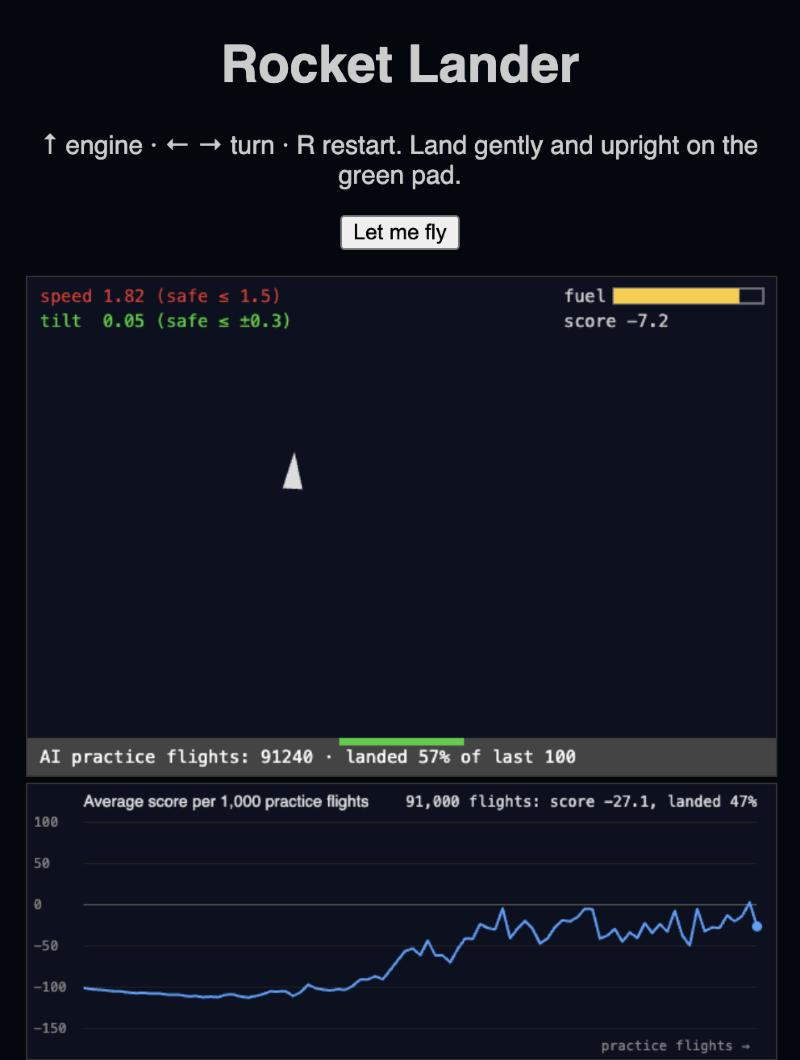
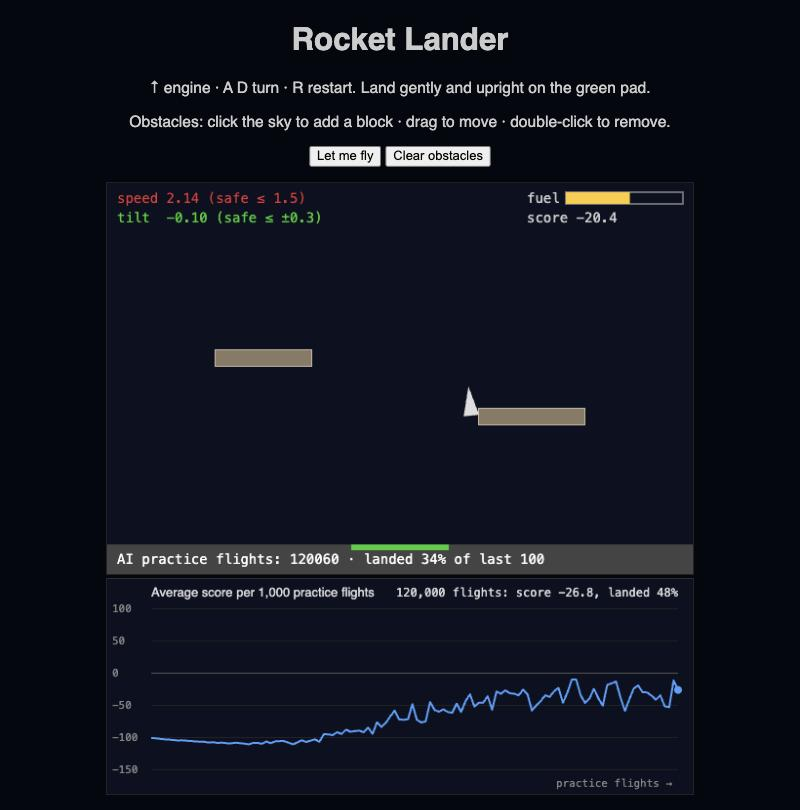
Document A/D controls, obstacles and the AI's eyes in the README
- New screenshot: the AI steering past a block toward the pad, with
  its learning curve, replacing the old one from before obstacles.
- How to add, drag and remove blocks.
- physics.js and game.js descriptions now mention obstacles and mouse.
- New section on why the AI needs to see blocks, with the offline
  result: 24-50% landings with eyes vs 5-11% blind when the block moves
  every flight.
- New experiment: drag a block over the pad and watch the chart.
- Test description and typical AI result updated.

diff --git a/README.md b/README.md
@@ -21,6 +21,7 @@ python3 -m http.server 8000 --bind 127.0.0.1
 Then open http://localhost:8000.
 
 - **Fly it yourself:** ↑ engine, A and D turn, R restart. Land gently and upright on the green pad.
+- **Obstacles:** click the sky to add a block, drag to move it, double-click to remove it (works with a finger on phones). Hitting a block is a crash. You can rearrange them while the AI is learning.
 - **Let the AI learn:** it practises about 1,200 flights per second in the background. The rocket on screen shows what it has learned so far.
 - **Settings:** sliders change gravity, thrust, fuel, the rewards and how much the AI explores, live. **Reset AI** wipes its memory so you can watch it learn a new world from scratch.
 
@@ -28,9 +29,9 @@ Then open http://localhost:8000.
 
 | File | What it does |
 |------|--------------|
-| [`physics.js`](physics.js) | The world: gravity, engine thrust, rotation, fuel, and landing or crash detection. One function, `step(rocket, action)`, moves time forward one frame. |
+| [`physics.js`](physics.js) | The world: gravity, engine thrust, rotation, fuel, obstacles, and landing or crash detection. One function, `step(rocket, action)`, moves time forward one frame. |
 | [`agent.js`](agent.js) | The AI: tabular **Q-learning**. |
-| [`game.js`](game.js) | Draws the world, reads the keyboard and runs the training loop. |
+| [`game.js`](game.js) | Draws the world, reads the keyboard and mouse, and runs the training loop. |
 | [`chart.js`](chart.js) | The live learning curve, drawn on a canvas. |
 | [`settings.js`](settings.js) | The slider panel. |
 | [`test.js`](test.js) | Automated checks for the physics and the AI. |
@@ -47,7 +48,7 @@ The AI is never told what "landing" means. It only gets a score:
 
 The AI keeps a table of guesses: for each situation, *how much total score will each action lead to?*
 
-1. **See:** round the rocket's position, speed, tilt and fuel into a situation, such as "left of pad, high, falling fast, upright".
+1. **See:** round the rocket's position, speed, tilt and fuel into a situation, such as "left of pad, high, falling fast, upright". It also "sees" the nearest block underneath it, if any: how close, and whether dodging left or right is shorter.
 2. **Act:** usually pick the action with the best guess, but 10% of the time try a random one (exploration).
 3. **Learn:** after seeing the reward and the next situation, nudge the guess:
 
@@ -55,11 +56,16 @@ The AI keeps a table of guesses: for each situation, *how much total score will 
 
 After tens of thousands of practice flights, "pick the best guess" turns into "land the rocket".
 
+### Why the AI needs "eyes"
+
+An AI can only avoid what it can observe. With a block that never moves, the AI could get by just memorising "crashes happen around here". But when a block moves, that memory is wrong. Describing the block *relative to the rocket* fixes this. In an offline test where the block moved to a random spot every flight, the AI with eyes landed 24–50% of flights after 100,000 practice runs, while the blind version landed only 5–11%.
+
 ## Experiments to try
 
 - **Exploration:** set AI explore chance to 0, then press Reset AI. With no random actions it often gets stuck with a bad habit.
 - **Bad rewards:** set fuel cost to −5. Burning fuel now costs more than crashing, so the AI learns to crash on purpose.
 - **Transfer:** let it learn, then raise gravity to 0.09. Does it adapt faster than starting fresh with Reset AI?
+- **Obstacles:** let it learn, then drag a block right above the pad. Watch the chart dip, then recover as it learns a way around.
 
 ## Tests
 
@@ -67,7 +73,7 @@ After tens of thousands of practice flights, "pick the best guess" turns into "l
 node test.js
 ```
 
-Checks gravity, thrust, fuel, landing and crash rules, the rewards, and that the AI lands more than 15% of flights after 100,000 practice flights (it usually reaches 50–60%).
+Checks gravity, thrust, fuel, obstacles, landing and crash rules, the rewards, the AI's view of blocks, and that the AI lands more than 15% of flights after 100,000 practice flights (it usually reaches 40–70%).
 
 ## Ideas for next steps
 
